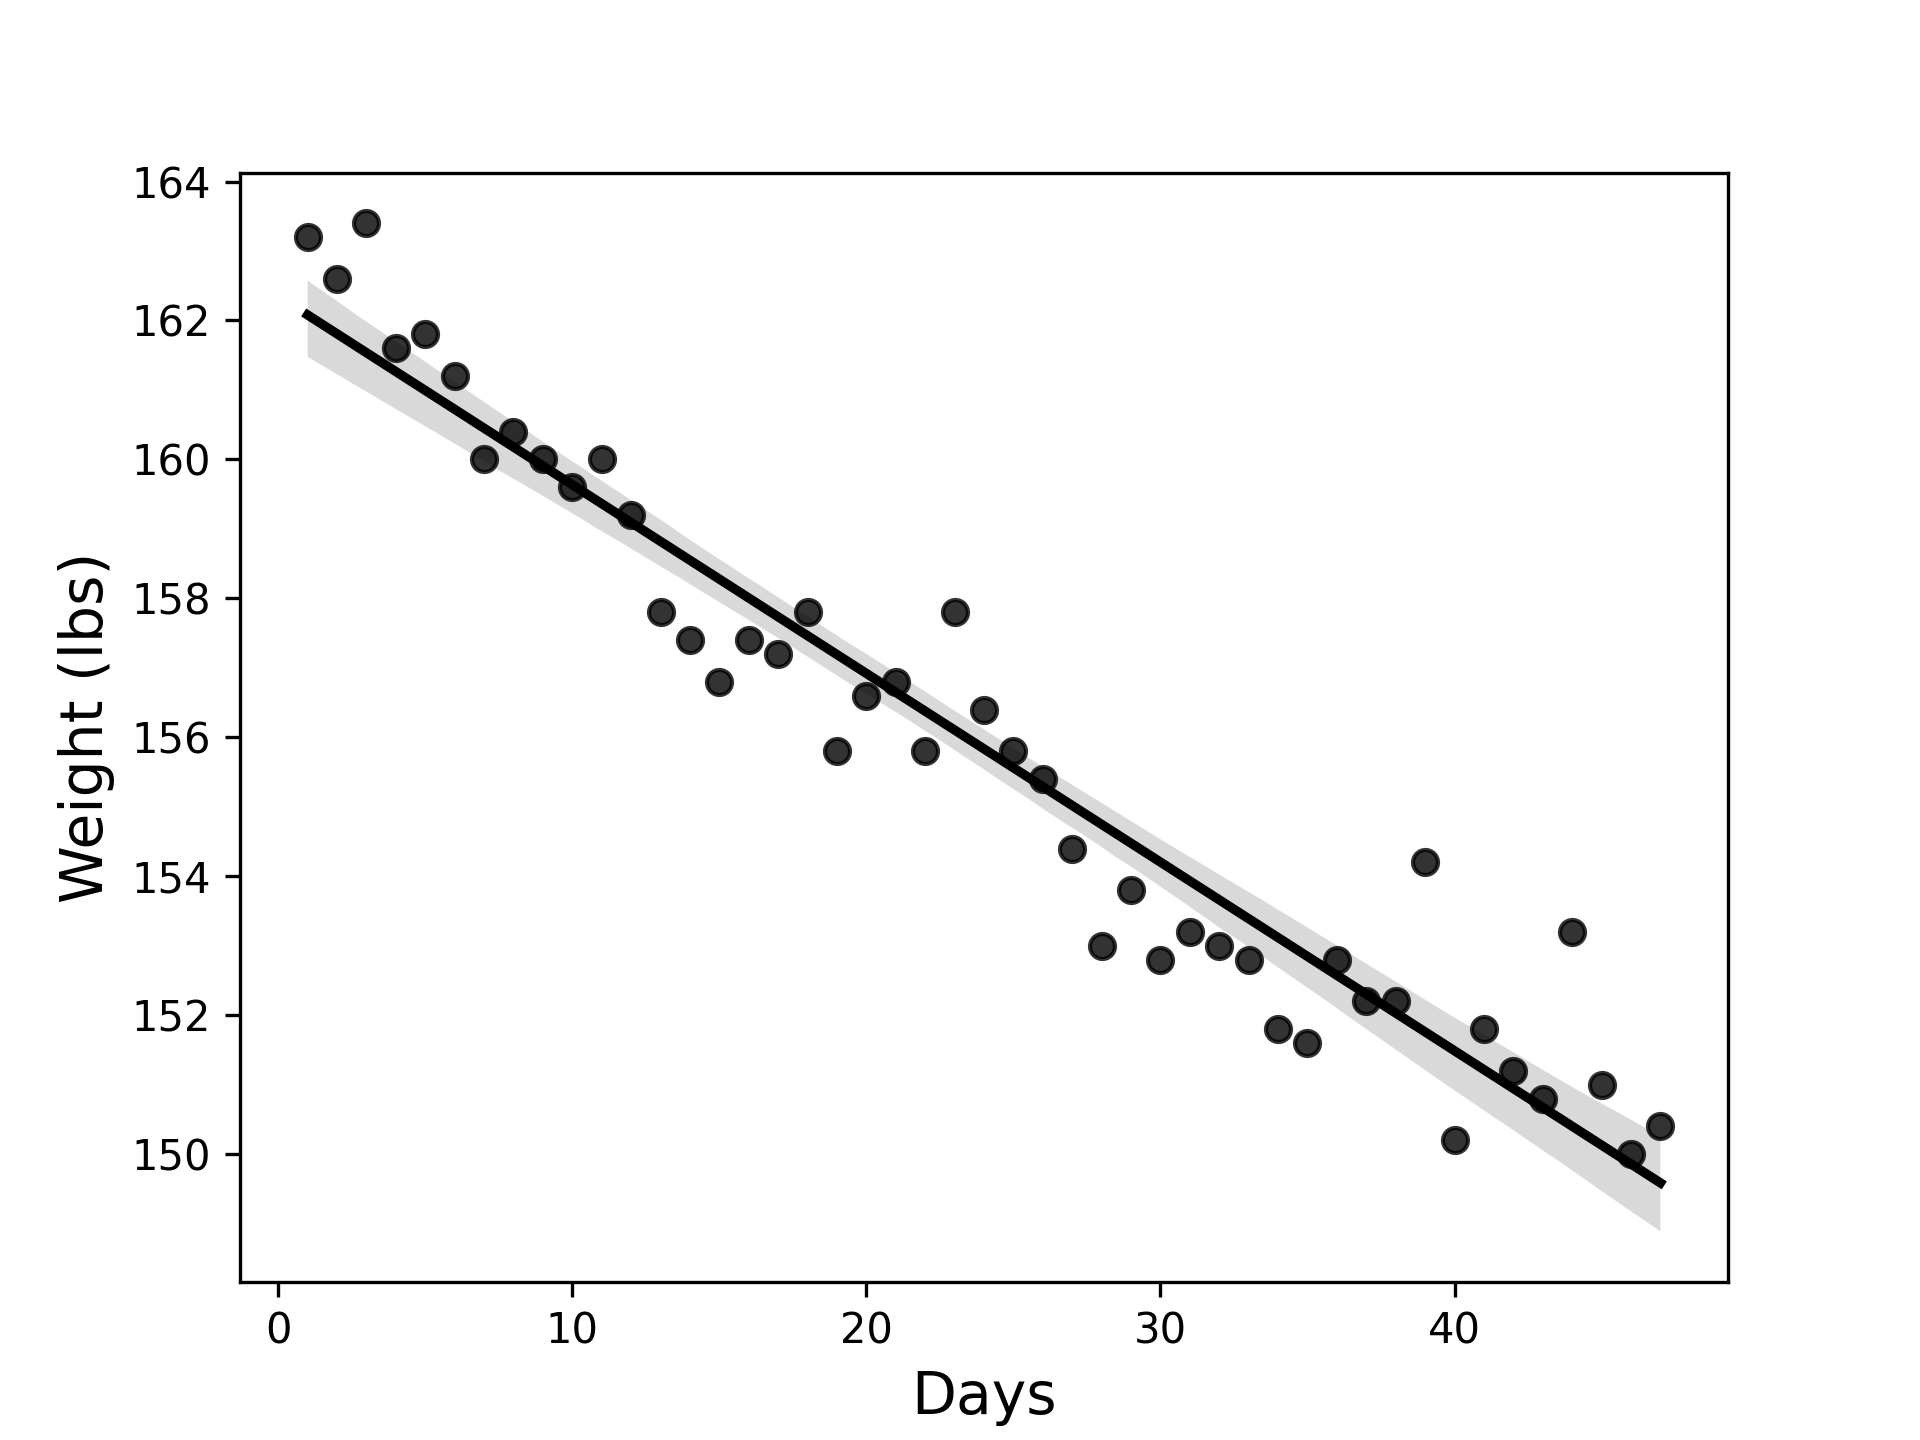
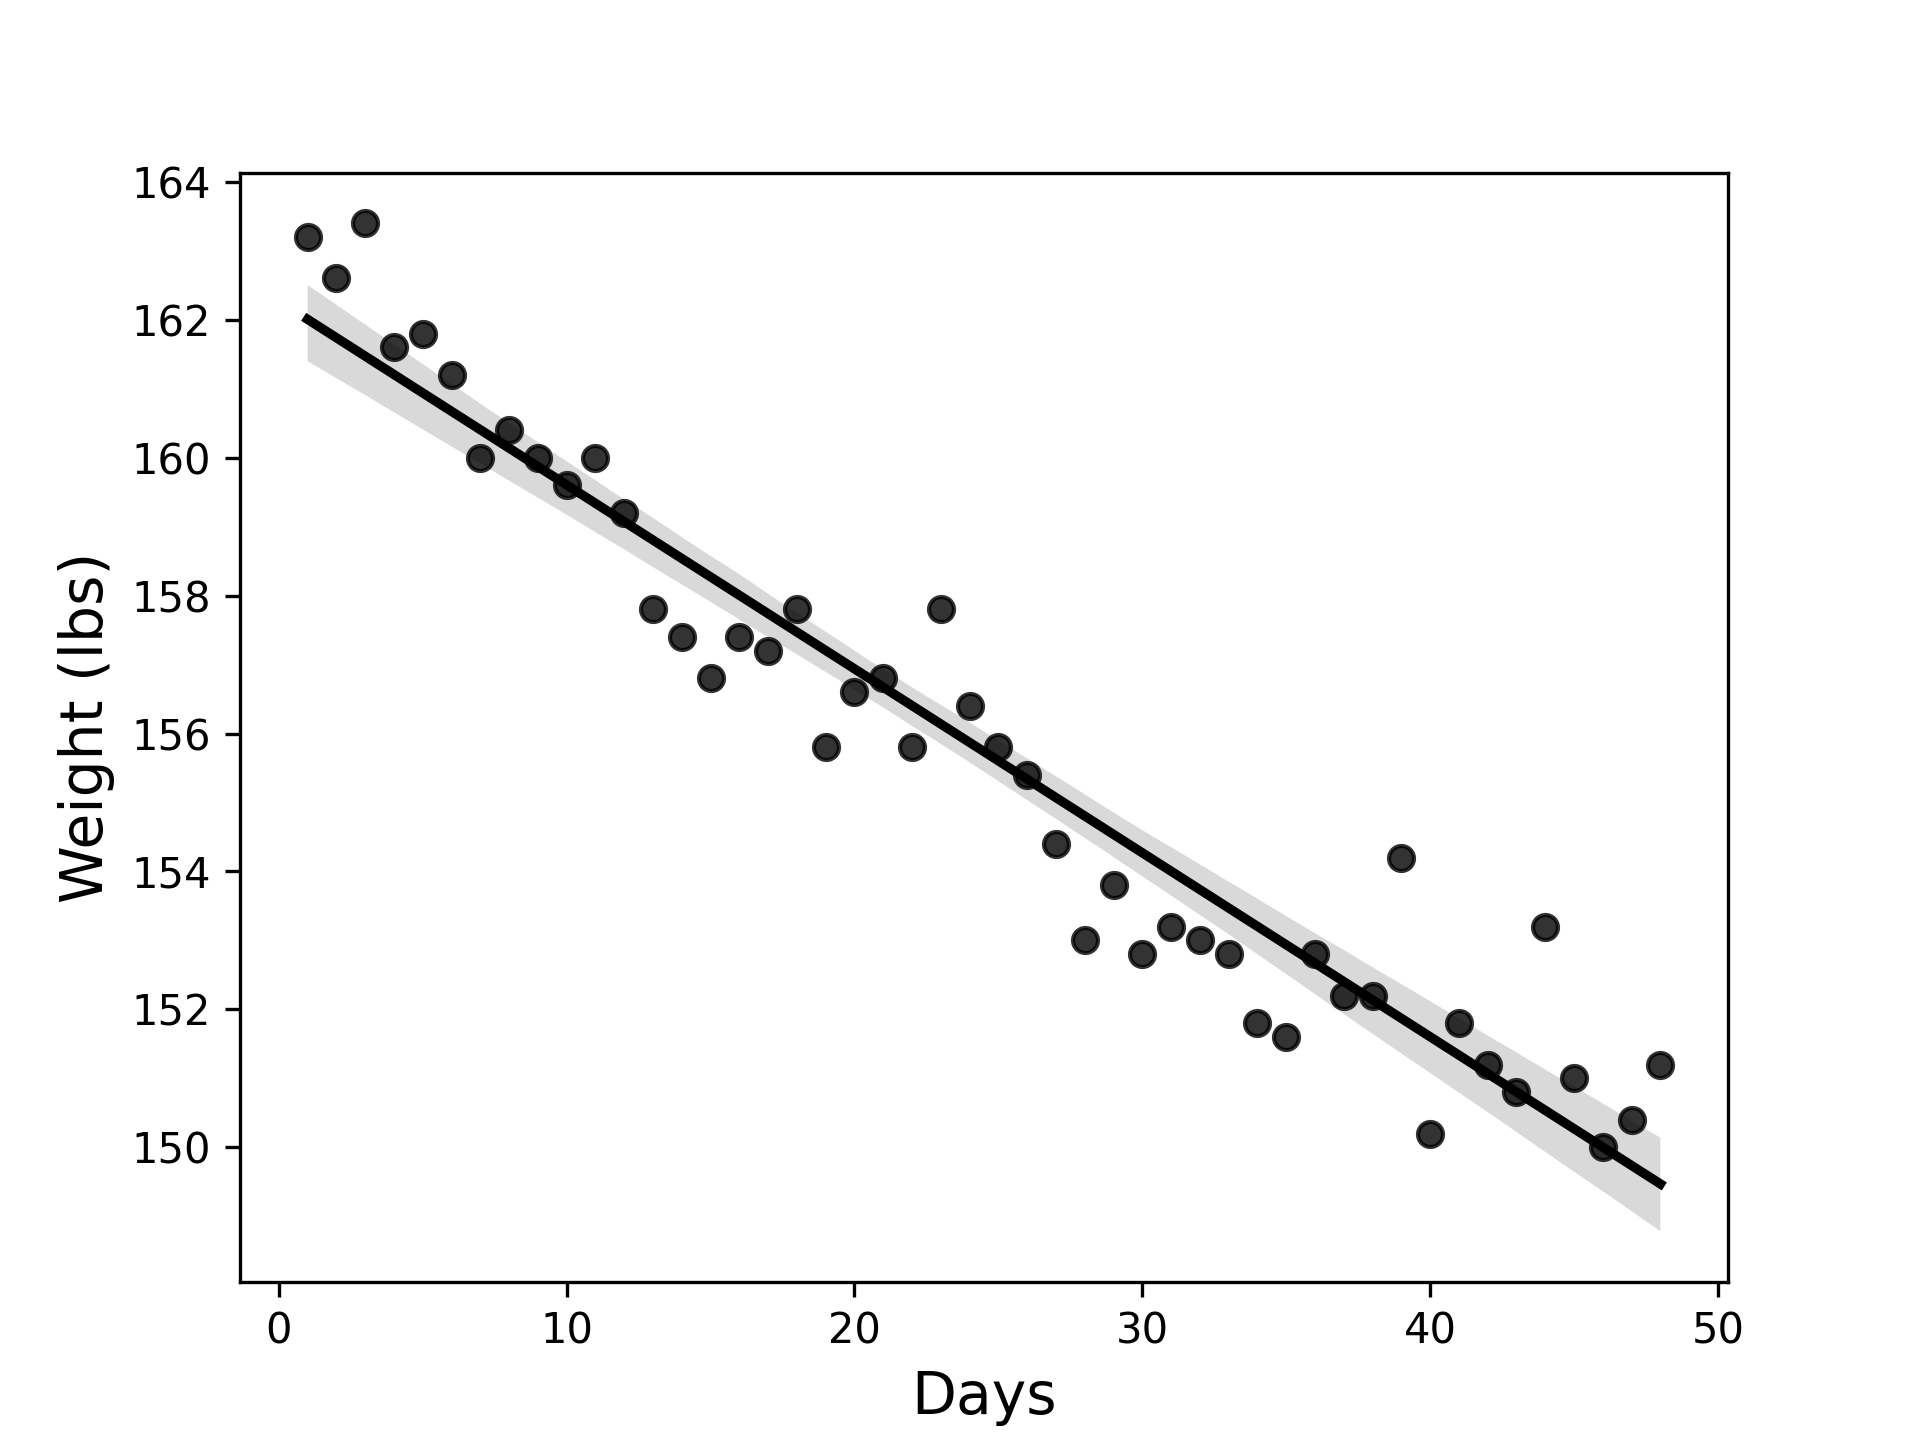
Updated weight.py and weight.png

diff --git a/Weight.py b/Weight.py
@@ -7,11 +7,11 @@ import seaborn as sns
 # Creates an array of elapsed days and assigns it to days_elapsed
 days_elapsed = np.array([1, 2, 3 ,4, 5, 6, 7, 8, 9, 10,11,12,13, 14,15,16,17,18,
                          19, 20,21,22,23,24,25,26,27,28,29,30,31,32,33,34,35,36,37,38,39,
-                         40,41,42,43,44,45,46,47]).reshape(-1,1)
+                         40,41,42,43,44,45,46,47,48]).reshape(-1,1)
 weight = np.array([163.2, 162.6, 163.4, 161.6, 161.8, 161.2, 160.0, 160.4, 160.0, 159.6,160.0,159.2,157.8, 157.4,156.8,157.4,
                    157.2, 157.8,155.8, 156.6,156.8,155.8,157.8,156.4,155.8,155.4,154.4,153.0,153.8,152.8,153.2,
                    153.0,152.8,151.8,151.6,152.8,152.2,152.2,154.2,150.2, 151.8,151.2,150.8,153.2,
-                   151.0,150.0,150.4])
+                   151.0,150.0,150.4,151.2])
 
 # Instantiates a LinearRegression model and fits it to the above arrays
 model = sklearn.linear_model.LinearRegression().fit(days_elapsed,weight)
